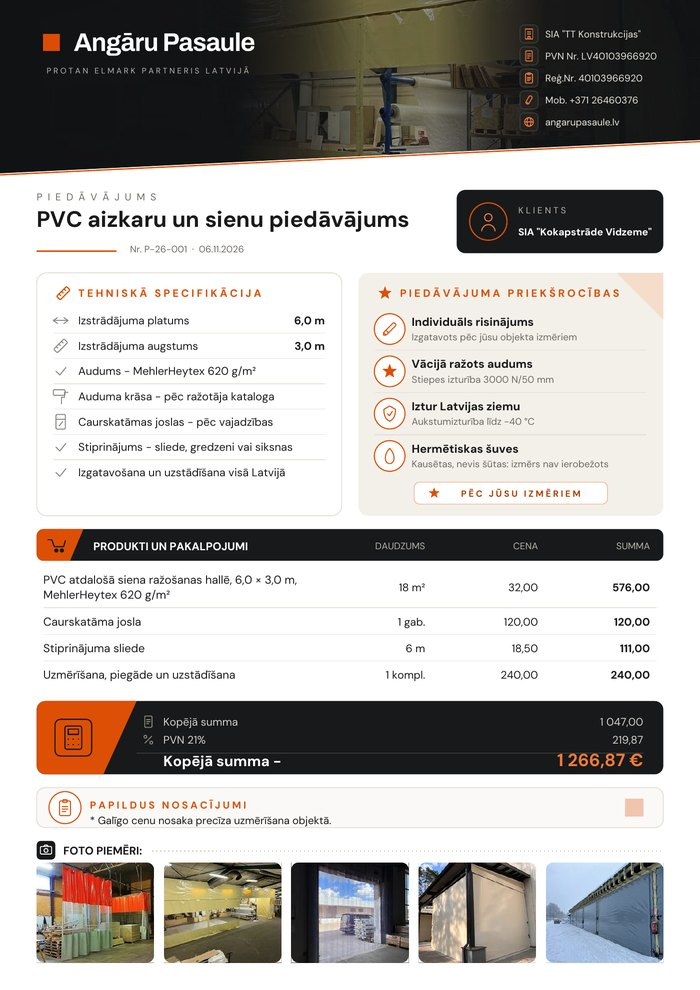
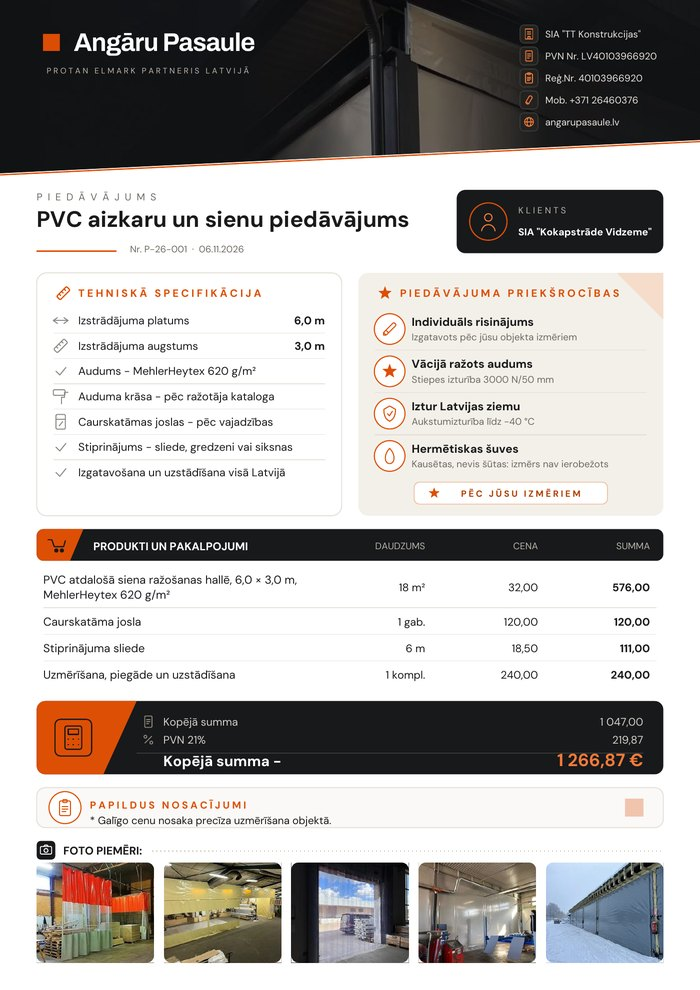
Angāru Pasaule tāme: the canopy PVC wall photo in the header
The owner picked pvc-siena-nojumei (beige PVC walls closing a canopy) for
the header. The band shows its photo only in a light window between the logo
and the contacts, and a centred cut of this photo put plain fabric there, so
a brand can now set header_box (left, top, width of the photo): Angāru
Pasaule takes the top-left 78 %, which puts the canopy corner (roof edge,
drainpipe, column, both walls) in the window. Tavai Terasei keeps the centred
cut. The default photo strip swaps that photo for the car-service partition
wall so an offer doesn't show it twice; the sample picture is re-rendered.

Claude-Session: https://claude.ai/code/session_017gfxyN4qm6vDPE19T8Q2Fz

Changed region(s): [[0.39, 0.0, 0.75, 0.1818], [0.6, 0.8485, 0.78, 0.9697]]

diff --git a/app/pdf_branded.py b/app/pdf_branded.py
@@ -68,6 +68,9 @@ BRANDS = {
         "accent_ink": "#b23f04", "accent_soft": "#f6dccb", "accent_line": "#efc3a6",
         "logo_w_mm": 64, "tagline": "Protan Elmark partneris Latvijā", "website": "angarupasaule.lv",
         "overlay": (17, 18, 20),
+        # the canopy corner (roof edge, drainpipe, column, both PVC walls) in the band's
+        # light window; a centred cut showed only plain fabric
+        "header_box": (0.0, 0.0, 0.78),
         "badge": "PĒC JŪSU IZMĒRIEM", "monogram": None,
     },
 }
@@ -433,7 +436,14 @@ def _header_bg_reader(brand):
     img = PILImage.open(photo).convert("RGB")
     target = bw_pt / bh_pt
     w, h = img.size
-    if w / h > target:                      # cover, center-center
+    box = brand.get("header_box")
+    if box:                                 # the brand's own cut: (left, top, width) of the photo
+        left, top_, width = box
+        nw = int(w * width)
+        nh = int(nw / target)
+        x0, y0 = int(w * left), int(h * top_)
+        img = img.crop((x0, y0, x0 + nw, y0 + nh))
+    elif w / h > target:                    # cover, center-center
         nw = int(h * target)
         x0 = (w - nw) // 2
         img = img.crop((x0, 0, x0 + nw, h))

diff --git a/app/main.py b/app/main.py
@@ -3311,7 +3311,7 @@ async def get_user_logo(request: Request):
 _TT_SEED_PHOTOS = ["bukulti_2.jpg", "jaunma_rupe_2.jpg", "ju_rmala_1.jpg",
                    "katlakalns_3.jpg", "saulkrasti_1.jpg"]
 _AP_SEED_PHOTOS = ["pvc_aizkars_darbnica.jpg", "pvc_siena_razotne.jpg", "pvc_sloksnu_aizkars.jpg",
-                   "pvc_siena_nojumei.jpg", "pvc_sienas_lauku_nojumei.jpg"]
+                   "pvc_siena_autoserviss.jpg", "pvc_sienas_lauku_nojumei.jpg"]
 
 
 def _offer_presets(uid):

diff --git a/CLAUDE.md b/CLAUDE.md
@@ -378,7 +378,9 @@ conditions strip, photo row). Architecture is three layers:
   tagline and website from settings) and `angaru_pasaule` (`custom_assets/angaru_pasaule`,
   ink #17191b + orange #dd4f05 from angarupasaule.lv, its wordmark, tagline "Protan Elmark
   partneris Latvijā", website angarupasaule.lv, badge "PĒC JŪSU IZMĒRIEM", square mark; see
-  that folder's SOURCES.txt). Both are SIA "TT Konstrukcijas", so the header's company rows
+  that folder's SOURCES.txt). The header band shows its photo only in a light window between
+  logo and contacts, so a brand may set `header_box` (left, top, width of the photo) to put the
+  photo's subject there; without one the photo is cut from the centre (Tavai Terasei). Both are SIA "TT Konstrukcijas", so the header's company rows
   (name, VAT, reg. no., phone) always come from the account. A brand lives on the preset
   (`offer_presets.brand`, select on the preset form, kept by duplicate) and travels into
   `offer_meta.brand` (hidden `offer_brand`); a meta without one renders as Tavai Terasei,
